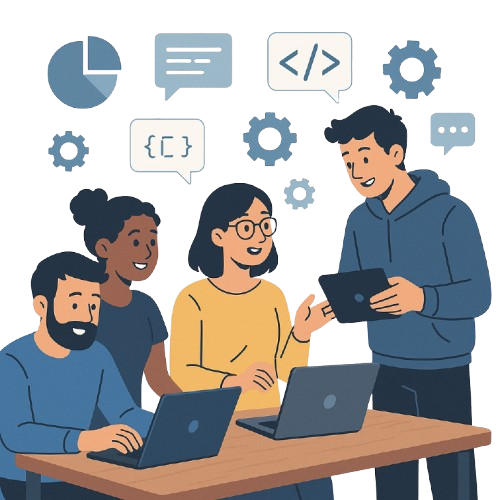
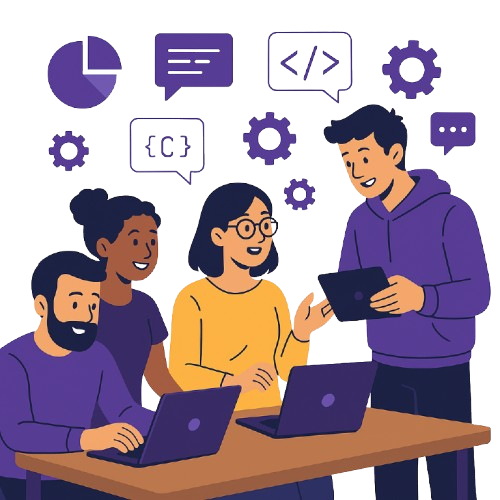
update

diff --git a/resources/views/components/Work_us.blade.php b/resources/views/components/Work_us.blade.php
@@ -1,13 +1,15 @@
 <section id="portfolio" class="py-5" style="background-color: #F4F4F4">
     <div class="container py-4">
         <h1 class="display-4 fw-bold mb-4 text-center" style="color: #571170" data-aos="fade-up">أعمالنا</h1>
+        <style>
 
+        </style>
         <!-- فلترة التصنيفات -->
         <div class="text-center mb-5">
-            <button class="btn btn-outline-primary btn-sm rounded-pill mx-1 filter-btn active" data-filter="all">الكل</button>
-            <button class="btn btn-outline-primary btn-sm rounded-pill mx-1 filter-btn" data-filter="web">مواقع إلكترونية</button>
-            <button class="btn btn-outline-primary btn-sm rounded-pill mx-1 filter-btn" data-filter="app">تطبيقات</button>
-            <button class="btn btn-outline-primary btn-sm rounded-pill mx-1 filter-btn" data-filter="graphic">تصاميم</button>
+            <button class="btn btn-light btn-sm rounded-pill mx-1 filter-btn active" data-filter="all">الكل</button>
+            <button class="btn bt btn-sm rounded-pill mx-1 filter-btn" data-filter="web">مواقع إلكترونية</button>
+            <button class="btn bt btn-sm rounded-pill mx-1 filter-btn" data-filter="app">تطبيقات</button>
+            <button class="btn bt btn-sm rounded-pill mx-1 filter-btn" data-filter="graphic">تصاميم</button>
         </div>
 
         <div class="row g-4" id="portfolio-items">
@@ -27,7 +29,7 @@
                             </div>
                         </div>
                     @else
-                        <div class="alert alert-info" role="alert">
+                        <div class="alert text-white " style="background-color: #735eb3" role="alert">
                             <i class="fas fa-info-circle me-2"></i> لا يوجد مشاريع حالياً
                         </div>
                     @endif
@@ -35,7 +37,7 @@
                 @endforeach
             @else
                 <div class="col-12 text-center py-5">
-                    <div class="alert alert-info" role="alert">
+                    <div class="alert text-white" style="background-color: #735eb3" role="alert">
                         <i class="fas fa-info-circle me-2"></i> لا يوجد مشاريع حالياً
                     </div>
                 </div>
@@ -52,8 +54,18 @@
         border-radius: 0.75rem 0.75rem 0 0;
     }
     .filter-btn.active {
-        background-color: #0A2463;
+        background-color: #735eb3;
         color: white;
+    }
+    .bt {
+        border-color: #735eb3;
+        background-color: #FFFFFF;
+        color: #735eb3;
+    }
+    .bt:hover {
+        border-color: #735eb3;
+        background-color: #735eb3;
+        color: #FFFFFF;
     }
 </style>
 

diff --git a/resources/views/components/Hero.blade.php b/resources/views/components/Hero.blade.php
@@ -6,11 +6,11 @@
                 <div class="hero-text mb-4 mb-md-0">
                     <h1 class="display-4 fw-medium text-dark mb-3">
                         نقودك
-                        <span class="fw-bold changing-text" style="color: #34495E;"></span>
+                        <span class="fw-bold changing-text" style="color: #571170;"></span>
                     </h1>
 
                     <h1 class="display-4 fw-medium text-dark mb-4">
-                        التقني لنُحدث الفرق في عالمك الرقمي
+                         لنُحدث الفرق في عالمك الرقمي
                     </h1>
 
                     <div class="my-4" data-aos="fade-down" >

diff --git a/resources/views/components/modal.blade.php b/resources/views/components/modal.blade.php
@@ -64,7 +64,7 @@
                     </div>
 
                     <div class="text-center">
-                        <button type="submit" class="btn btn-light rounded-pill px-4 py-2 text-white" style="background-color: #0A2463 ">
+                        <button type="submit" class="btn btn-light rounded-pill px-4 py-2 text-white" style="background-color: #571170 ">
                             <img src="{{ asset('images/Vector.svg') }}" alt="Send icon" width="15" class="me-2">
                             ارسال
                         </button>

diff --git a/resources/views/components/Navbar.blade.php b/resources/views/components/Navbar.blade.php
@@ -14,13 +14,12 @@
                     color: #34495E;
                 }
                 .nav-item  a:hover {
-                    color: #571170;
+                    color: #735eb3;
                 }
                 .nav-link.active {
-                   color: #571170 !important;
+                   color: #735eb3 !important;
                     font-weight: bold;
                         }
-
                 </style>
         <!-- محتوى القائمة -->
         <div class="collapse navbar-collapse" id="navbarContent">

diff --git a/resources/views/components/footer.blade.php b/resources/views/components/footer.blade.php
@@ -61,7 +61,7 @@
                         alt="instagram logo"
                         width="16"
                         height="16"
-                        class="ms-2"
+                        class="ms-2 "
                     >
                     <span style="color: white" class="small">انستجرام</span>
                 </div>
